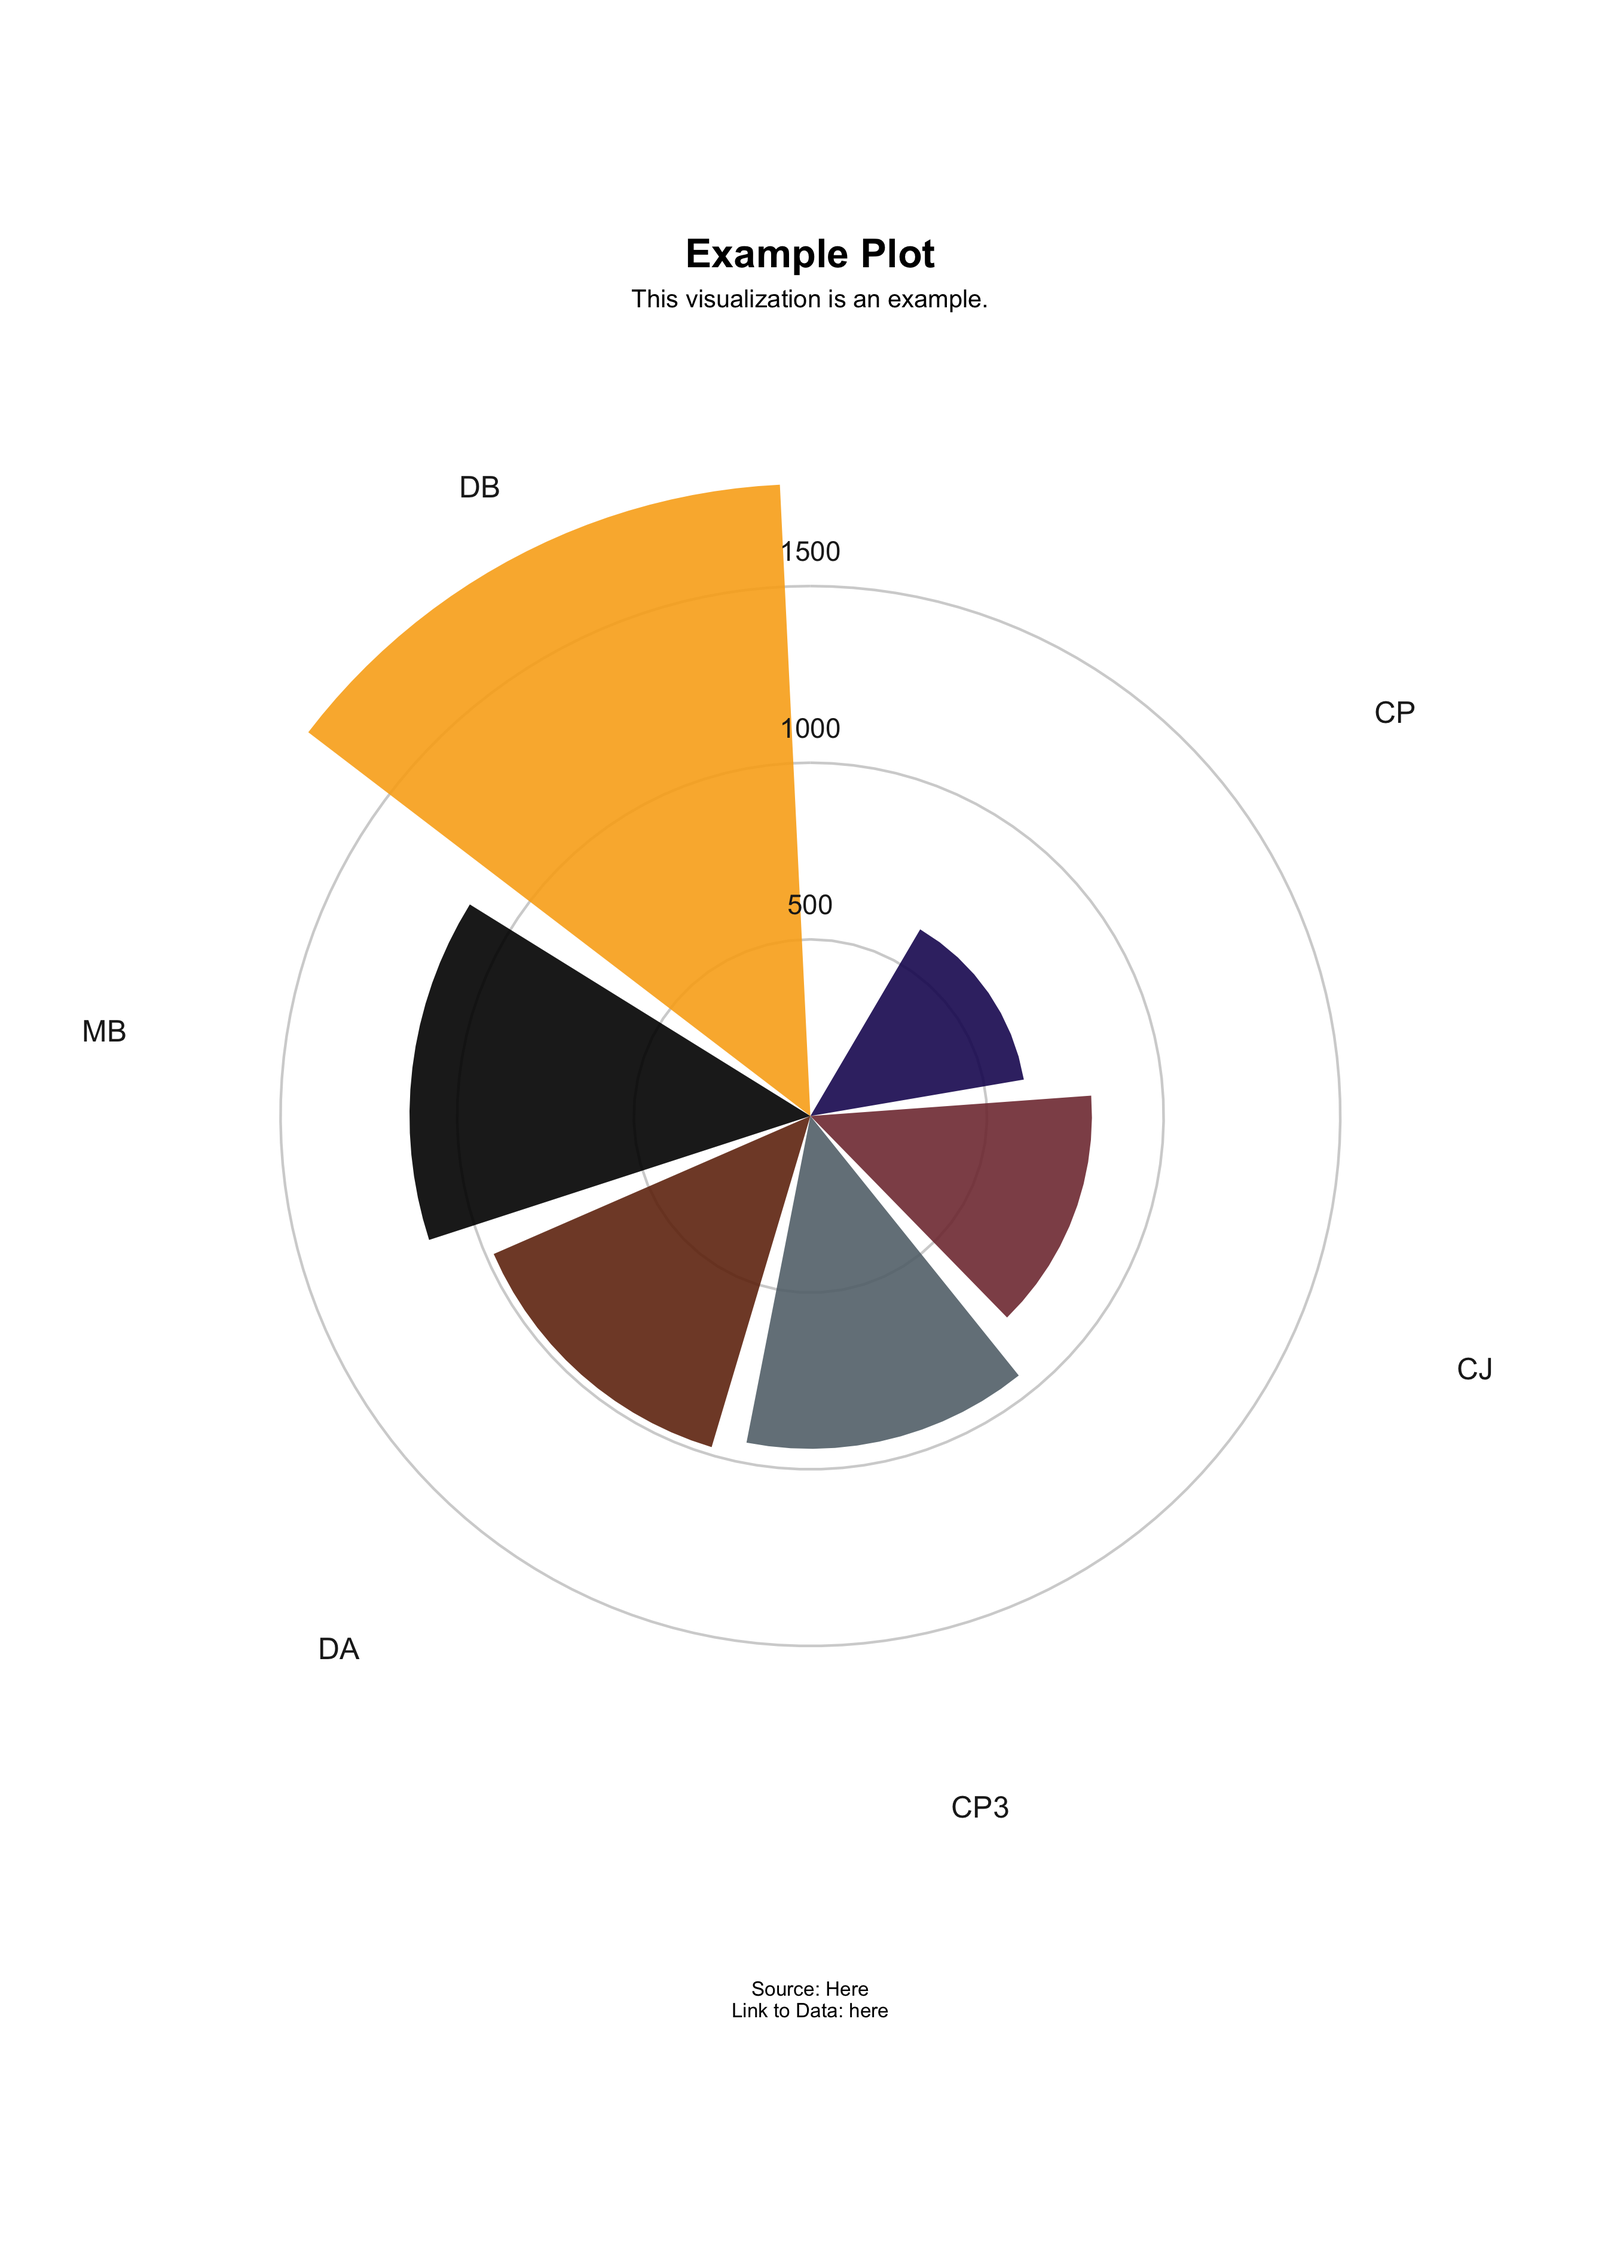
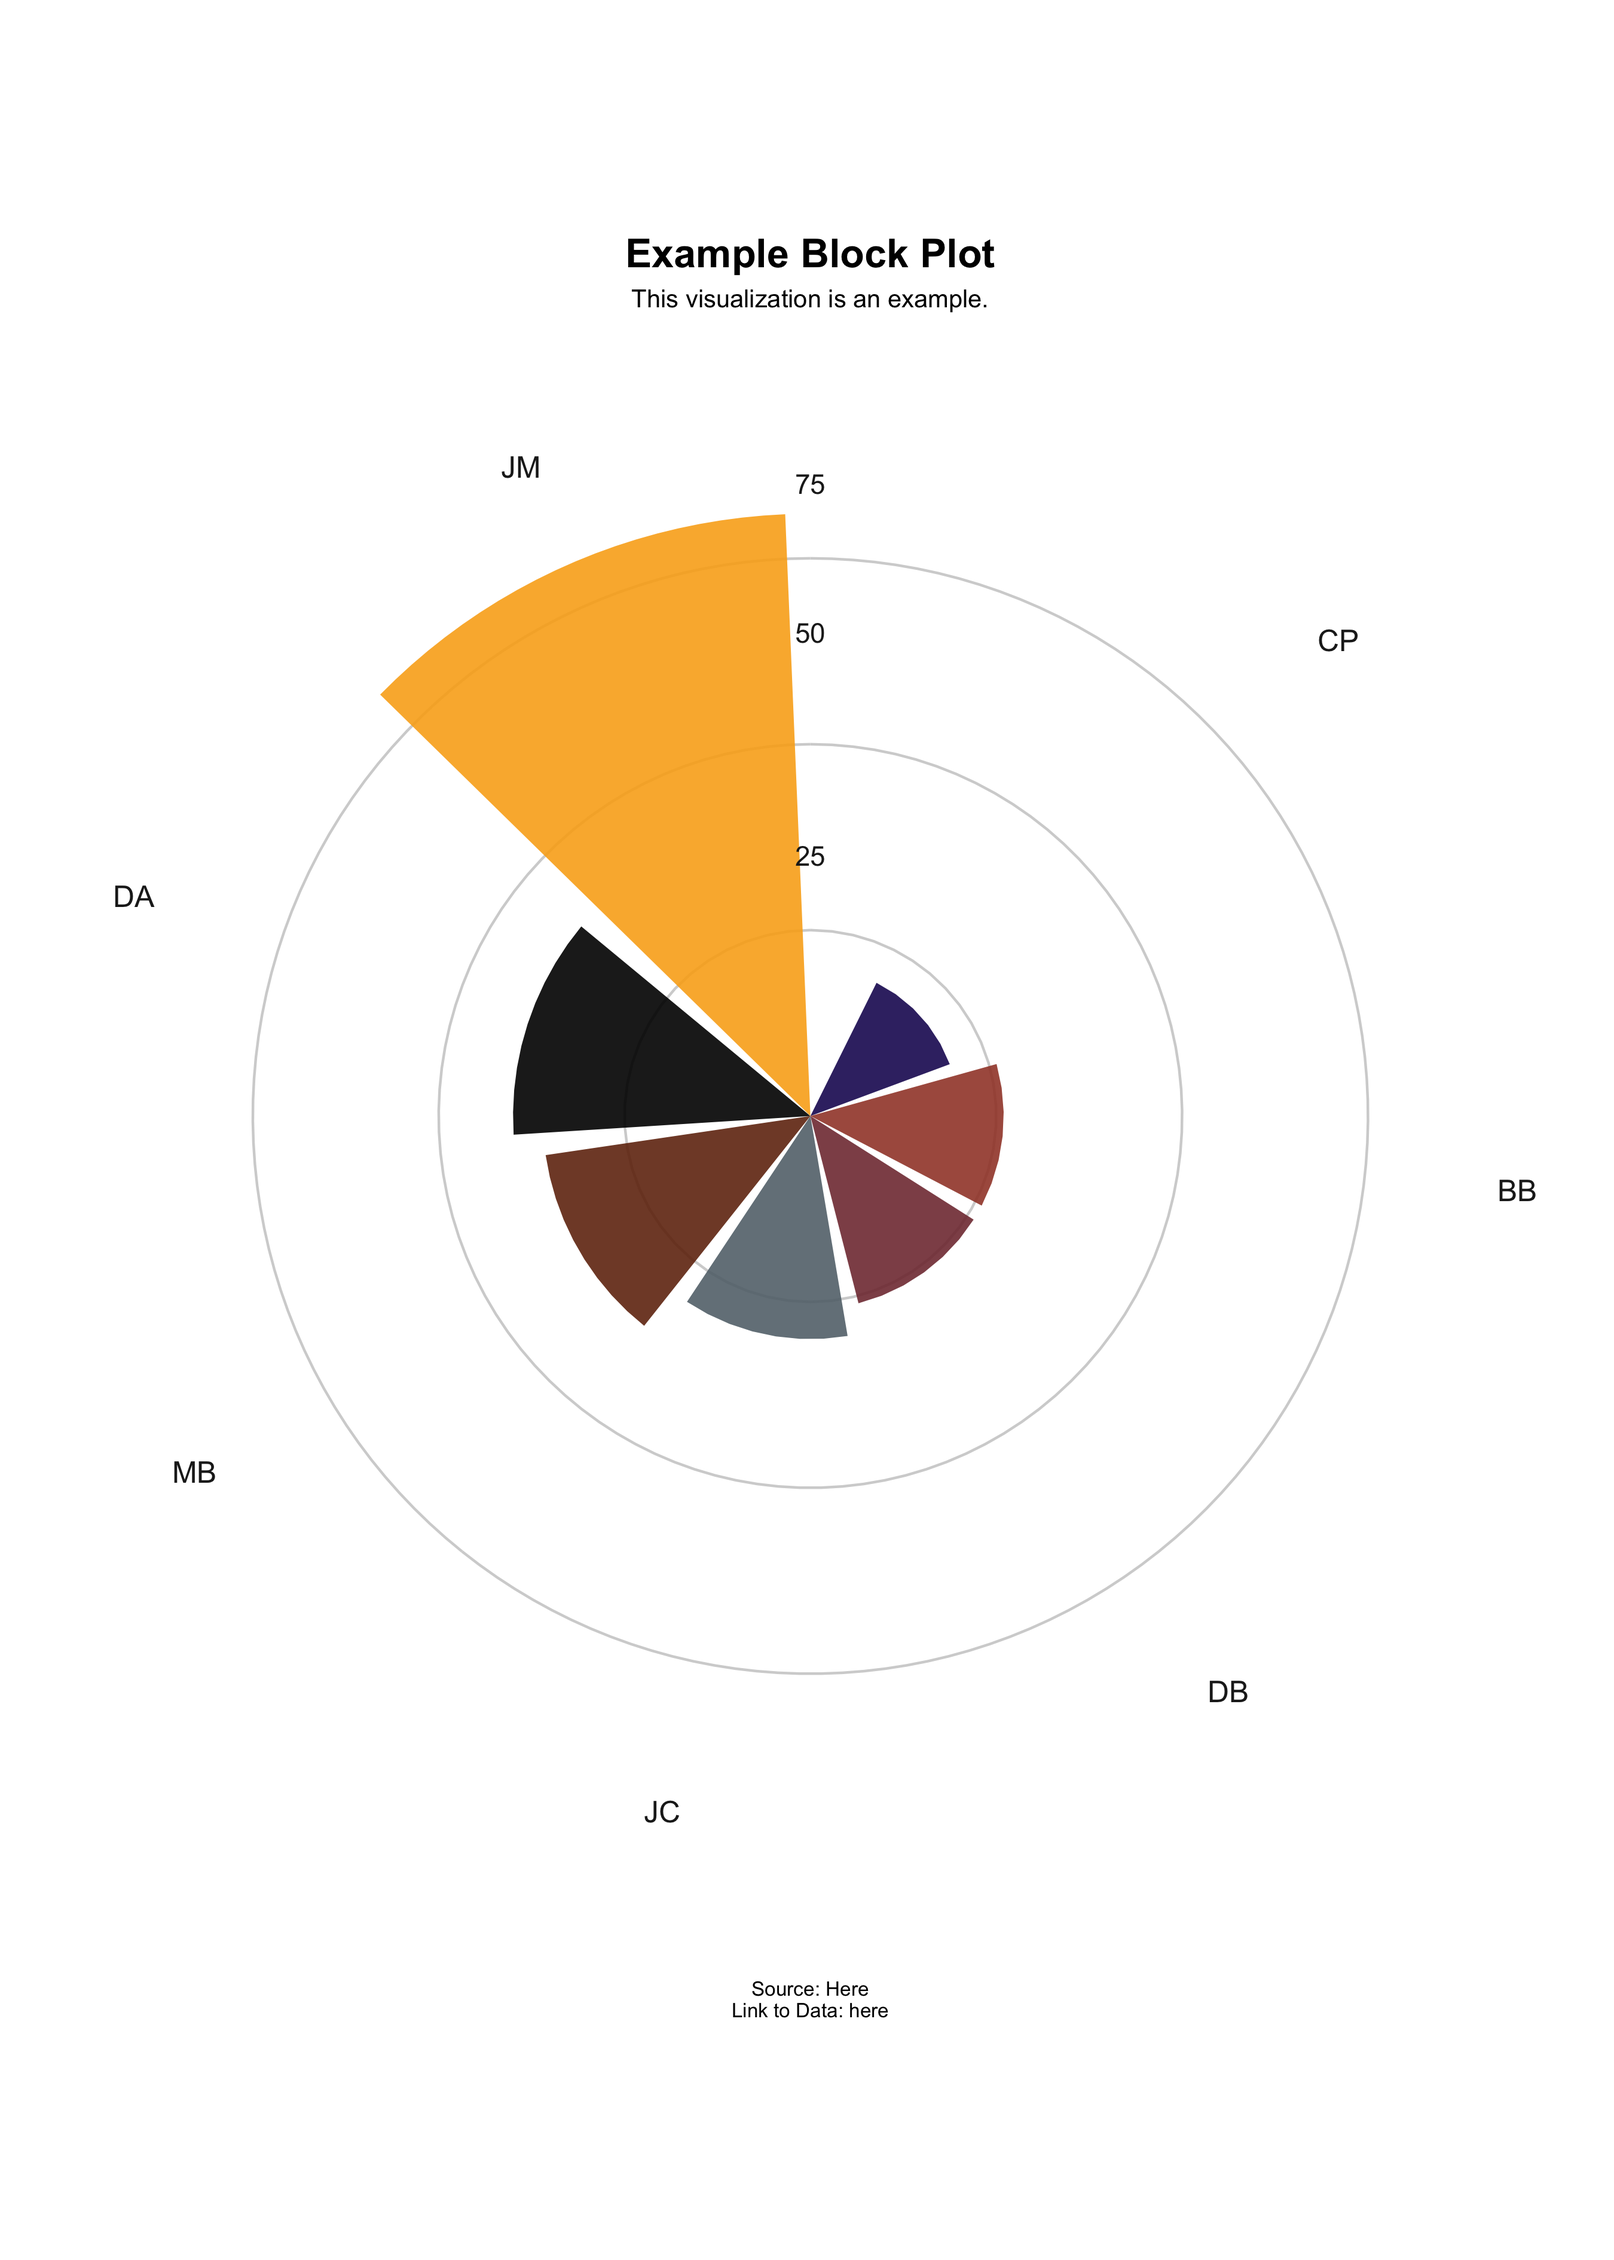
added second example to readme

diff --git a/README.md b/README.md
@@ -25,9 +25,9 @@ This is a basic example which shows you how to solve a common problem:
 ``` r
 library(NBAcharts)
 ## basic example code
-Player_data <- data.frame(player = c("DA", "CP3", "CJ", "DB", "MB","CP"),
+player_data_01 <- data.frame(player = c("DA", "CP3", "CJ", "DB", "MB","CP"),
                            data = c(978, 942, 797, 1789, 1135, 613))
-plot <- circ_col_chart(player_data = Player_data,
+circ_col_chart(player_data = player_data_01,
                        ring_scale = 500, 
                        ring_inner = 600,
                        ring_middle = 1100,
@@ -36,11 +36,26 @@ plot <- circ_col_chart(player_data = Player_data,
                        ringlab_middle = "1000",
                        ringlab_outer = "1500",
                        col_pal = c("#1D1160", "#813840", "#63727A", "#723010", "#000000", "#F9AD1B"),
-                       chart_title = c("Example Plot"),
+                       chart_title = c("Example Shot Plot"),
                        chart_subtitle = c("This visualization is an example."),
                        chart_source = c("\n\n Source: Here \nLink to Data: here"),
                        cc_chart_filename = c("example_plot.png"))
-plot
+## another example code
+player_data_02 <- data.frame(player = c("JM", "DA", "MB", "JC", "DB", "BB", "CP"),
+                           data = c(81, 40, 36, 30, 26, 26, 20))
+circ_col_chart(player_data = player_data_02,
+                       ring_scale = 25, 
+                       ring_inner = 35,
+                       ring_middle = 65,
+                       ring_outer = 85,
+                       ringlab_inner = "25",
+                       ringlab_middle = "50",
+                       ringlab_outer = "75",
+                       col_pal = c("#1D1160", "#A24535", "#813840", "#63727A", "#723010", "#000000", "#F9AD1B"),
+                       chart_title = c("Example Block Plot"),
+                       chart_subtitle = c("This visualization is an example."),
+                       chart_source = c("\n\n Source: Here \nLink to Data: here"),
+                       cc_chart_filename = c("example_plot.png"))
 ```
 
 <img src="example_plot.png" width="100%" />
